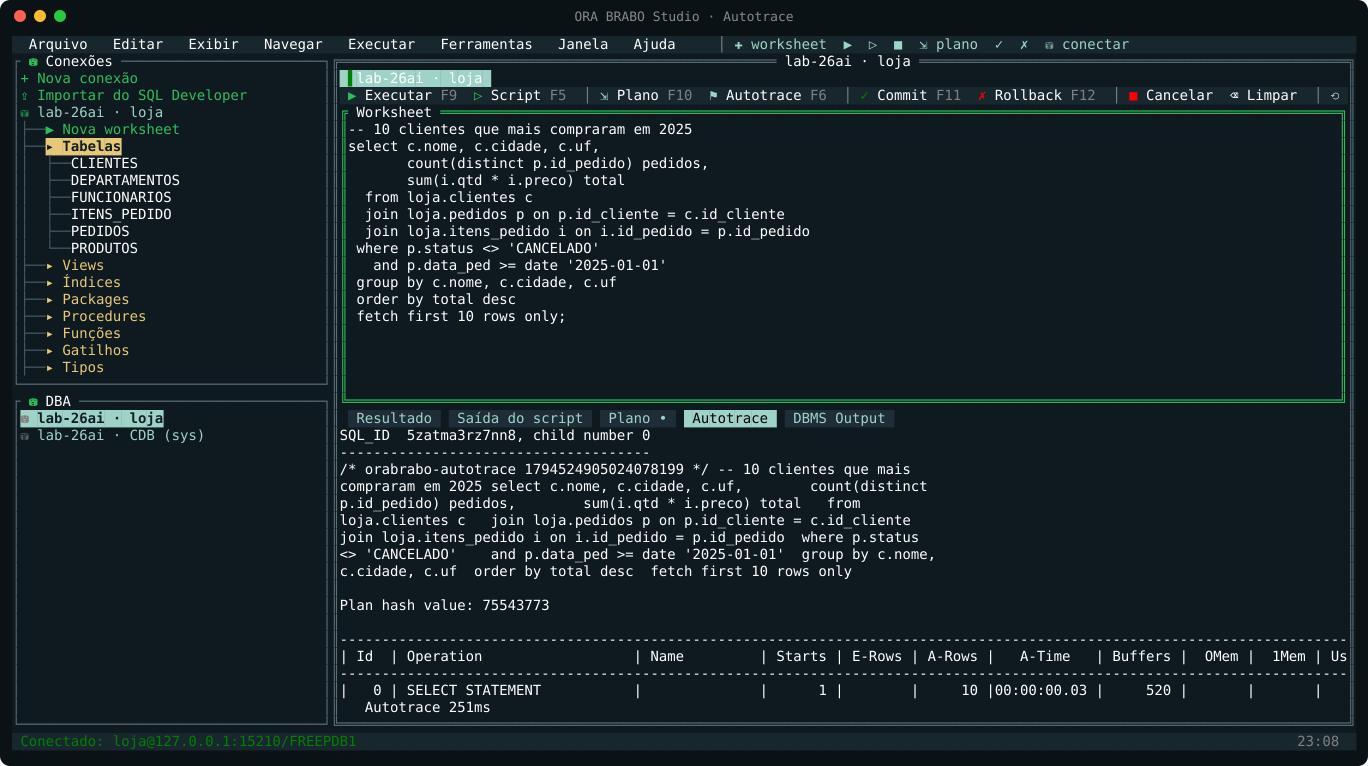
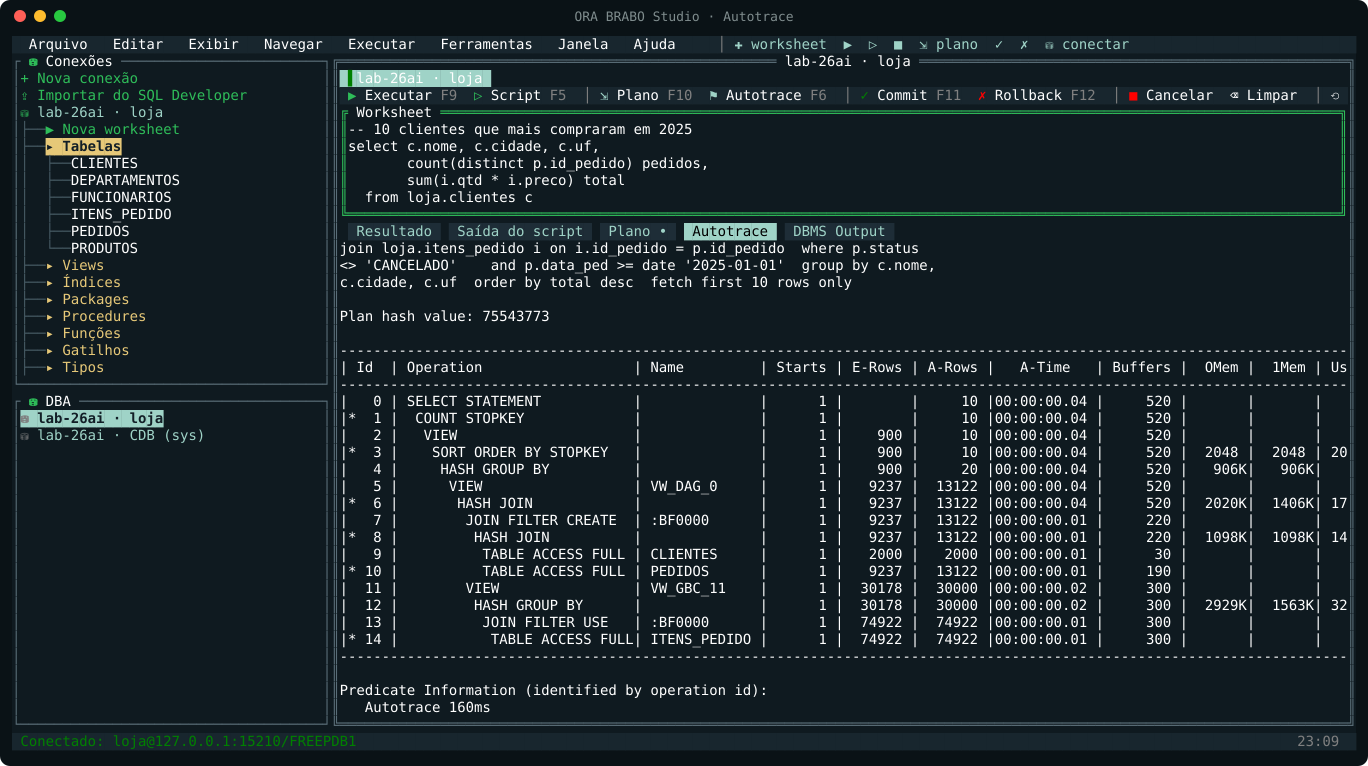
Prints: autotrace com o plano inteiro (A-Rows) e Top Activity com carga

Changed region(s): [[0.2456, 0.4504, 0.9825, 0.9308], [0.2456, 0.2702, 0.9825, 0.4204]]

diff --git a/internal/ui/shots_live_test.go b/internal/ui/shots_live_test.go
@@ -83,7 +83,7 @@ func TestShotsLive(t *testing.T) {
 	stop := make(chan struct{})
 	var wg sync.WaitGroup
 	load := func() {
-		for i := 0; i < 2; i++ {
+		for i := 0; i < 3; i++ {
 			db, err := ora.Open(loja)
 			if err != nil {
 				t.Fatal(err)
@@ -102,7 +102,7 @@ func TestShotsLive(t *testing.T) {
 					_ = db.QueryRow(`select sum(i.qtd * i.preco) from loja.pedidos p join loja.itens_pedido i on i.id_pedido = p.id_pedido
 					  join loja.clientes c on c.id_cliente = p.id_cliente where c.uf = :1`, []string{"SP", "RJ", "MG", "PR"}[time.Now().Second()%4]).Scan(&x)
 					_, _ = db.Exec("update loja.pedidos set status = status where id_pedido = :1", time.Now().Nanosecond()%30000+1)
-					time.Sleep(150 * time.Millisecond)
+					time.Sleep(20 * time.Millisecond)
 				}
 			}()
 		}
@@ -191,9 +191,15 @@ func TestShotsLive(t *testing.T) {
 		h.waitFor("Plan hash value", 60*time.Second)
 		shot("explain", "ORA BRABO Studio · "+L("Plano de execução", "Explain plan"))
 
-		ui(func() { w.runCurrent(true) })
+		ui(func() { w.resize(-3); w.runCurrent(true) }) // editor menor: cabe o plano inteiro
 		h.waitFor("A-Rows", 90*time.Second)
+		ui(func() {
+			if tv := w.texts["trace"]; tv != nil {
+				tv.ScrollTo(6, 0) // pula o texto do SQL e mostra o plano
+			}
+		})
 		shot("autotrace", "ORA BRABO Studio · Autotrace")
+		ui(func() { w.resize(3) })
 
 		ui(func() { h.a.openObject(c, "LOJA", "PEDIDOS", "TABLE") })
 		h.waitFor("DATA_PED", 30*time.Second)
@@ -253,7 +259,7 @@ func TestShotsLive(t *testing.T) {
 		dbaOpen(L("Banco", "Database"), "db.instance", rows)
 		shot("instance", "ORA BRABO Studio · DBA · "+L("Instância", "Instance"))
 		dbaOpen(L("Banco", "Database"), "db.topactivity", "Top Activity")
-		time.Sleep(9 * time.Second) // o gráfico enche com as amostras
+		time.Sleep(30 * time.Second) // o gráfico enche com as amostras
 		shot("topactivity", "ORA BRABO Studio · Top Activity")
 
 		// ação com a linha real do datafile da USERS
